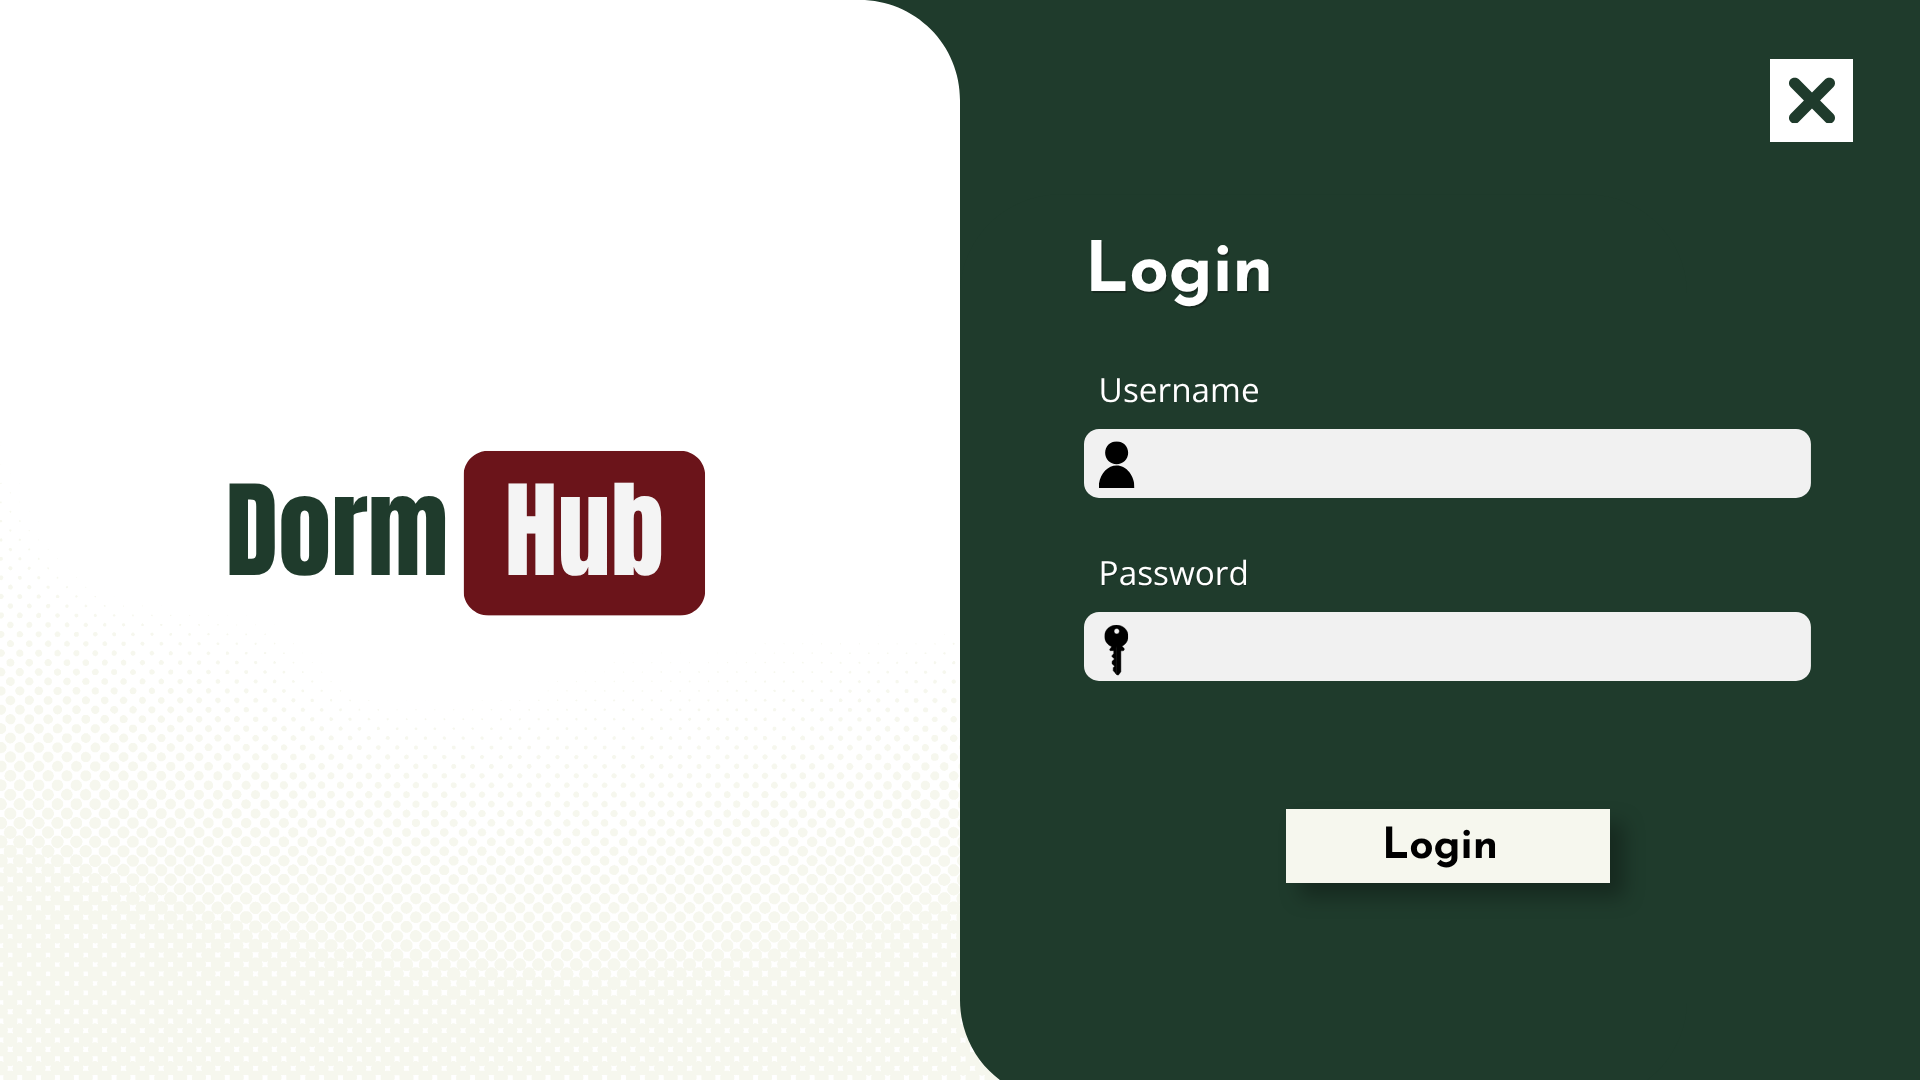
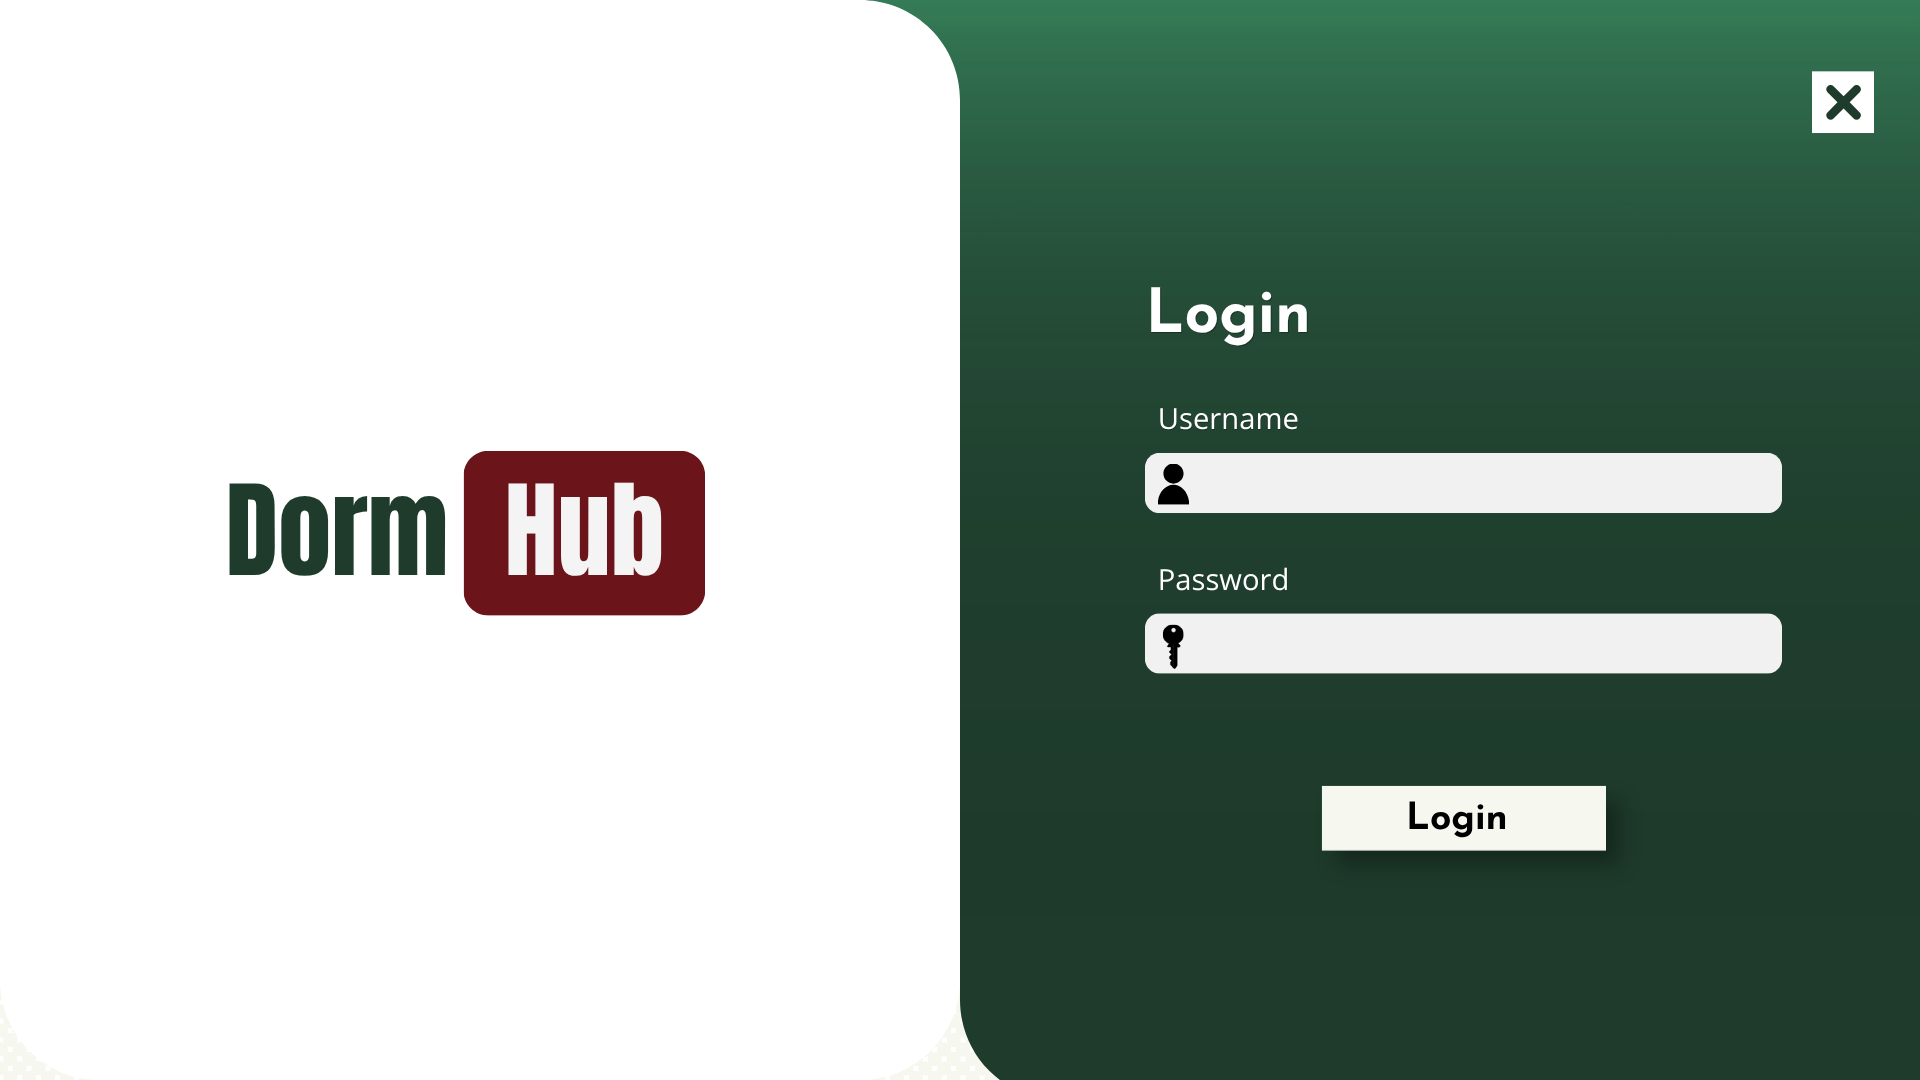
added tables and placeholder for actual button logic implementation. Modified login page and added exit button to panels

Changed region(s): [[0.4688, 0.0, 1.0, 0.4889], [0.6562, 0.7028, 0.8438, 0.825], [0.5625, 0.5194, 0.9688, 0.6417]]

diff --git a/GUI/src/ContentPanel.java b/GUI/src/ContentPanel.java
@@ -1,9 +1,13 @@
 import javax.swing.*;
+import javax.swing.table.DefaultTableModel;
+import javax.swing.table.JTableHeader;
+import javax.swing.table.TableRowSorter;
 import java.awt.*;
 
 public class ContentPanel extends JPanel {
 
     JButton ViewBtn, AddBtn, UpdateBtn, DeleteBtn, ExportBtn;
+    JButton searchBtn;
 
     // Dashboard panels
     JPanel TR = new JPanel();
@@ -15,6 +19,11 @@ public class ContentPanel extends JPanel {
     JPanel searchPanel = new JPanel(new FlowLayout(FlowLayout.CENTER));
     private JTextField searchField;
     private JComboBox<String> attributeComboBox;
+    private JTable table;
+    private DefaultTableModel tableModel;
+    private TableRowSorter<DefaultTableModel> sorter;
+    // Scroll pane
+    JScrollPane scrollPane;
 
     public ContentPanel(Dimension screenSize) {
         setLayout(null);
@@ -39,7 +48,7 @@ public class ContentPanel extends JPanel {
         attributeComboBox.setBackground(Color.WHITE);
 
         // Search Button
-        JButton searchBtn = new JButton("Search");
+        searchBtn = new JButton("Search");
         searchBtn.setPreferredSize(new Dimension(123, 35));
         searchBtn.setBackground(Color.WHITE);
         searchBtn.setFont(new Font("Arial", Font.BOLD, 18));
@@ -62,7 +71,45 @@ public class ContentPanel extends JPanel {
         searchPanel.add(searchBtn);
         searchPanel.setBackground(new Color(0, 0, 0, 0));
         searchPanel.setBounds((int) 320.5, (int) 223, (int) 1599.5, (int) 58.6);
-        searchPanel.setVisible(false);
+
+        // Table Model
+        String[] columnNames = {"Resident ID", "First Name", "Last Name", "Contact no.", "Year level", "Program", "Move-in-date"};
+        tableModel = new DefaultTableModel(columnNames, 0) {
+            @Override
+            public boolean isCellEditable(int row, int column) {
+                return false;
+            }
+        };
+
+        // Table
+        table = new JTable(tableModel);
+        table.setSelectionMode(ListSelectionModel.SINGLE_SELECTION);
+        table.setBackground(Color.WHITE);
+        table.setForeground(Color.BLACK);
+        table.setFont(new Font("Arial", Font.PLAIN, 18));
+        table.setRowHeight(30);
+
+        JTableHeader header = table.getTableHeader();
+        header.setFont(new Font("Arial", Font.BOLD, 22));
+        header.setBackground(new Color(31, 59, 44));
+        header.setForeground(Color.WHITE);
+        header.setPreferredSize(new Dimension(header.getPreferredSize().width, 40));
+
+        scrollPane = new JScrollPane(table);
+        scrollPane.setBounds(371, 325, 1497, 701);
+        scrollPane.getViewport().setBackground(Color.WHITE);
+        add(scrollPane);
+
+        // Sorter
+        sorter = new TableRowSorter<>(tableModel);
+        table.setRowSorter(sorter);
+
+        // Exit Button
+        ImageIcon exitIcon = new ImageIcon("src/img/ExitGreen.png");
+        JButton exitButton = new JButton(exitIcon);
+        exitButton.setFocusPainted(false);
+        exitButton.setBounds(1840, (int) 26.7, 50, 50);
+        exitButton.addActionListener(e -> System.exit(0));
 
 
         // Dashboard panels
@@ -78,6 +125,8 @@ public class ContentPanel extends JPanel {
         add(searchPanel);
         add(TR); add(PDPR); add(RA); add(RO);
         add(ViewBtn); add(AddBtn); add(UpdateBtn); add(DeleteBtn); add(ExportBtn);
+        add(exitButton);
+
 
         showDashboard(); // initial state
     }
@@ -99,9 +148,46 @@ public class ContentPanel extends JPanel {
         DeleteBtn.setVisible(false);
         ExportBtn.setVisible(false);
         searchPanel.setVisible(false);
+        table.setVisible(false);
+        scrollPane.setVisible(false);
     }
 
-    public void showManager() {
+    public void showResidents() {
+        showManagerPanel(
+                new String[]{"Resident ID", "First Name", "Last Name", "Contact no.", "Year level", "Program", "Move-in-date"},
+                "Residents"
+        );
+    }
+
+    public void showRooms() {
+        showManagerPanel(
+                new String[]{"Room Number", "Room Type", "Capacity", "Current Occupancy"},
+                "Rooms"
+        );
+    }
+
+    public void showAssignments() {
+        showManagerPanel(
+                new String[]{"Assignment ID", "Resident ID", "Room ID", "Date Assigned", "Date Vacated"},
+                "Assignments"
+        );
+    }
+
+    public void showPayments() {
+        showManagerPanel(
+                new String[]{"Payment ID", "Resident ID", "Amount", "Payment Date", "Status"},
+                "Payments"
+        );
+    }
+
+    public void showDormPass() {
+        showManagerPanel(
+                new String[]{"Resident ID", "Reason", "Destination", "Date Applied", "Status"},
+                "DormPass"
+        );
+    }
+
+    private void showManagerPanel(String[] columnNames, String label) {
         TR.setVisible(false);
         PDPR.setVisible(false);
         RA.setVisible(false);
@@ -112,5 +198,45 @@ public class ContentPanel extends JPanel {
         DeleteBtn.setVisible(true);
         ExportBtn.setVisible(true);
         searchPanel.setVisible(true);
+        table.setVisible(true);
+        scrollPane.setVisible(true);
+
+        tableModel.setRowCount(0);
+        tableModel.setColumnIdentifiers(columnNames);
+
+        attributeComboBox.removeAllItems();
+        for (String columnName : columnNames) {
+            attributeComboBox.addItem(columnName);
+        }
+
+        bindPlaceholderActions(label);
+    }
+
+    // Rebind button actions every time the active panel changes.
+    // Always remove old listeners first, or one click may trigger actions
+    // from previously opened panels (Residents, Rooms, Payments, etc.).
+    // Replace the placeholder listeners below with the real CRUD/search/export logic.
+    private void bindPlaceholderActions(String label) {
+        // Helper for clearing previously attached ActionListeners from a button
+        // before assigning the current panel's behavior.
+        resetActionListeners(ViewBtn);
+        resetActionListeners(AddBtn);
+        resetActionListeners(UpdateBtn);
+        resetActionListeners(DeleteBtn);
+        resetActionListeners(ExportBtn);
+        resetActionListeners(searchBtn);
+
+        ViewBtn.addActionListener(e -> System.out.println("View all " + label + " clicked"));
+        AddBtn.addActionListener(e -> System.out.println("Add " + label + " clicked"));
+        UpdateBtn.addActionListener(e -> System.out.println("Update " + label + " clicked"));
+        DeleteBtn.addActionListener(e -> System.out.println("Delete " + label + " clicked"));
+        ExportBtn.addActionListener(e -> System.out.println("Export " + label + " clicked"));
+        searchBtn.addActionListener(e -> System.out.println("Search " + label + " clicked"));
+    }
+
+    private void resetActionListeners(AbstractButton button) {
+        for (java.awt.event.ActionListener listener : button.getActionListeners()) {
+            button.removeActionListener(listener);
+        }
     }
 }

diff --git a/GUI/src/PanelsHandler.java b/GUI/src/PanelsHandler.java
@@ -22,32 +22,32 @@ public class PanelsHandler extends JPanel {
         BackgroundPanel p1 = new BackgroundPanel("src/img/10w.png", false);
         p1.setBounds(0, (int) 217.2, 320, 144);
         p1.setOpaque(false);
-        addHoverEffect(p1, "src/img/10.png", "src/img/10w.png", "src/img/ResM.png", false);
+        addHoverEffect(p1, "src/img/10.png", "src/img/10w.png", "src/img/ResM.png", () -> contentPanel.showResidents());
 
         BackgroundPanel p2 = new BackgroundPanel("src/img/11w.png", false);
         p2.setBounds(0, (int) 361.3, 320, 144);
         p2.setOpaque(false);
-        addHoverEffect(p2, "src/img/11.png", "src/img/11w.png", "src/img/RoomM.png", false);
+        addHoverEffect(p2, "src/img/11.png", "src/img/11w.png", "src/img/RoomM.png", () -> contentPanel.showRooms());
 
         BackgroundPanel p3 = new BackgroundPanel("src/img/12w.png", false);
         p3.setBounds(0, (int) 505.4, 320, 144);
         p3.setOpaque(false);
-        addHoverEffect(p3, "src/img/12.png", "src/img/12w.png", "src/img/AssM.png", false);
+        addHoverEffect(p3, "src/img/12.png", "src/img/12w.png", "src/img/AssM.png", () -> contentPanel.showAssignments());
 
         BackgroundPanel p4 = new BackgroundPanel("src/img/13w.png", false);
         p4.setBounds(0, (int) 649.5, 320, 144);
         p4.setOpaque(false);
-        addHoverEffect(p4, "src/img/13.png", "src/img/13w.png", "src/img/PayM.png", false);
+        addHoverEffect(p4, "src/img/13.png", "src/img/13w.png", "src/img/PayM.png", () -> contentPanel.showPayments());
 
         BackgroundPanel p5 = new BackgroundPanel("src/img/14w.png", false);
         p5.setBounds(0, (int) 793.9, 320, 144);
         p5.setOpaque(false);
-        addHoverEffect(p5, "src/img/14.png", "src/img/14w.png", "src/img/DormM.png", false);
+        addHoverEffect(p5, "src/img/14.png", "src/img/14w.png", "src/img/DormM.png", () -> contentPanel.showDormPass());
 
         BackgroundPanel p6 = new BackgroundPanel("src/img/15w.png", false); // Dashboard
         p6.setBounds(0, (int) 936.1, 320, 144);
         p6.setOpaque(false);
-        addHoverEffect(p6, "src/img/15.png", "src/img/15w.png", "src/img/MngDshB.png", true); // true = is dashboard
+        addHoverEffect(p6, "src/img/15.png", "src/img/15w.png", "src/img/MngDshB.png", () -> contentPanel.showDashboard());
 
         mgr.add(contentPanel);
         mgr.add(p6);
@@ -59,7 +59,7 @@ public class PanelsHandler extends JPanel {
         add(mgr);
     }
 
-    private void addHoverEffect(BackgroundPanel panel, String hoverImg, String defaultImg, String bgImg, boolean isDashboard) {
+    private void addHoverEffect(BackgroundPanel panel, String hoverImg, String defaultImg, String bgImg, Runnable onClick) {
         panel.addMouseListener(new java.awt.event.MouseAdapter() {
             @Override
             public void mouseEntered(java.awt.event.MouseEvent e) {
@@ -78,11 +78,7 @@ public class PanelsHandler extends JPanel {
             public void mouseClicked(java.awt.event.MouseEvent e) {
                 mgr.setBackground(bgImg);
                 mgr.repaint();
-                if (isDashboard) {
-                    contentPanel.showDashboard();
-                } else {
-                    contentPanel.showManager();
-                }
+                onClick.run();
             }
         });
     }

diff --git a/GUI/src/GUIMain.java b/GUI/src/GUIMain.java
@@ -21,7 +21,7 @@ public class GUIMain {
         ImageIcon exitIcon = new ImageIcon("src/img/Exit.png");
         JButton exitButton = new JButton(exitIcon);
         exitButton.setFocusPainted(false);
-        exitButton.setBounds(1770, 59, 83, 83);
+        exitButton.setBounds(1812, (int) 71.1, 62, 62);
         exitButton.addActionListener(e -> System.exit(0));
         loginPage.add(exitButton);
 
@@ -31,21 +31,21 @@ public class GUIMain {
         loginButton.setFocusPainted(false);
         loginButton.setBackground(Color.WHITE);
         loginButton.setForeground(new Color(31, 59, 44, 255));
-        loginButton.setBounds(1286, 809, 324, 74);
+        loginButton.setBounds((int) 1321.9, (int) 785.9, 284, (int) 64.9);
         loginPage.add(loginButton);
 
         // TextField
         JTextField usernameField = new JTextField();
-        usernameField.setBounds((int) 1151.4, 429, 637, 69);
-        usernameField.setFont(new Font("Arial", Font.PLAIN, 20));
+        usernameField.setBounds((int) 1203.9, (int) 452.8, (int) 558.4, (int)60.5);
+        usernameField.setFont(new Font("Arial", Font.PLAIN, 18));
         usernameField.setBorder(BorderFactory.createEmptyBorder());
         usernameField.setOpaque(false);
         loginPage.add(usernameField);
 
         // PasswordField
         JPasswordField passwordField = new JPasswordField();
-        passwordField.setBounds((int) 1151.4, (int) 611.8, 637, 69);
-        passwordField.setFont(new Font("Arial", Font.PLAIN, 20));
+        passwordField.setBounds((int) 1203.9, 613, (int) 558.4, (int)60.5);
+        passwordField.setFont(new Font("Arial", Font.PLAIN, 18));
         passwordField.setBorder(BorderFactory.createEmptyBorder());
         passwordField.setOpaque(false);
         loginPage.add(passwordField);
@@ -62,8 +62,8 @@ public class GUIMain {
 
         // Error Login Text
         JLabel Error = new JLabel("Invalid credentials. Try again.");
-        Error.setBounds((int) 1084.7, 701, 537, 44);
-        Error.setFont(new Font("Arial", Font.BOLD, 19));
+        Error.setBounds((int) 1145.5, (int) 691.7, (int) 470.1, (int) 38.6);
+        Error.setFont(new Font("Arial", Font.BOLD, 16));
         Error.setForeground(Color.WHITE);
         Error.setVisible(false);
         loginPage.add(Error);
